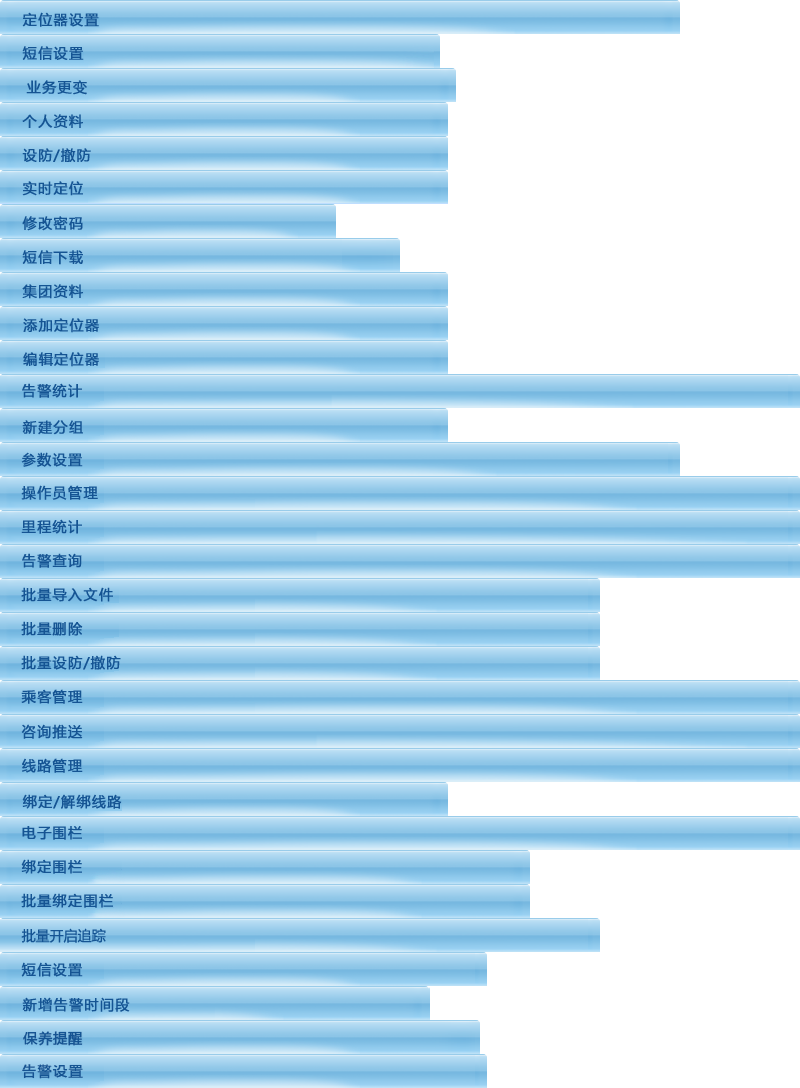
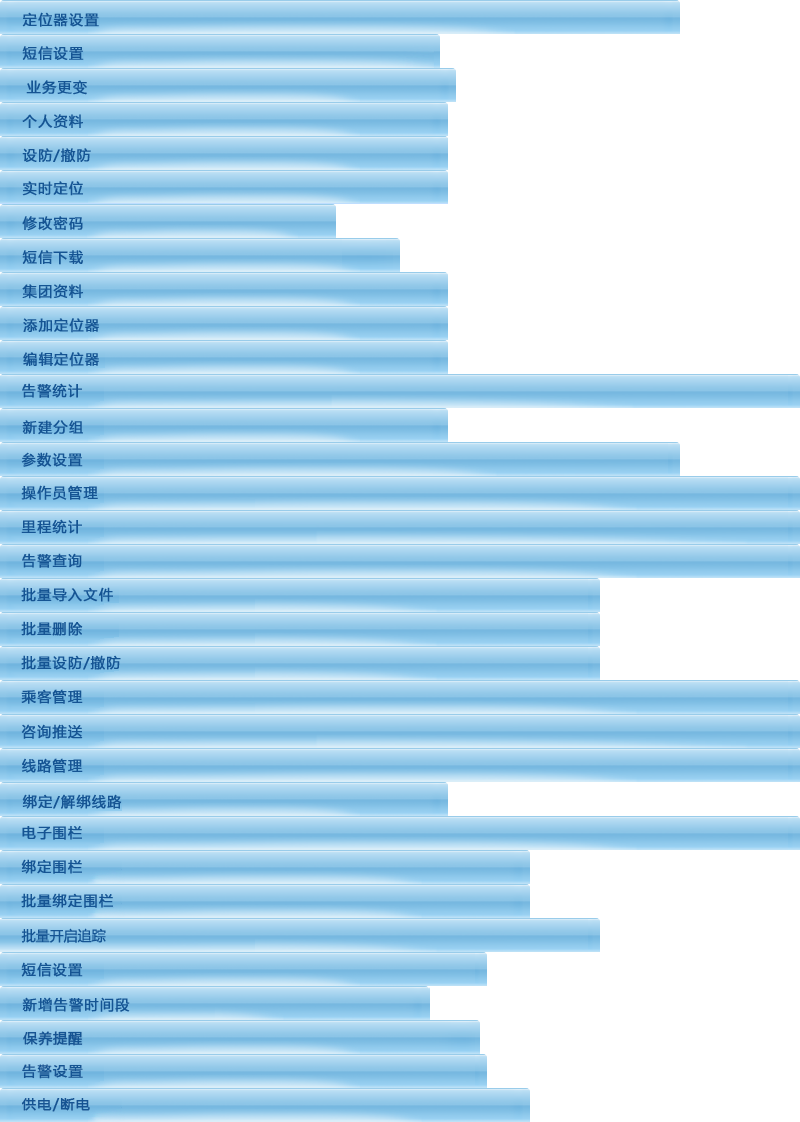
--hs --增加供电 /断电设置 --个人版增加供电/断电显示
git-svn-id: http://www.ichebao.net/svn/acb/trunk@2047 fbfde4e3-4bc3-4d81-a63b-7b332075e0cf

diff --git a/apps/uweb/static/js/initialize_common.js b/apps/uweb/static/js/initialize_common.js
@@ -625,6 +625,9 @@ window.dlf.fn_getCarData = function(str_flag) {
 				
 				obj_carInfo.tid = str_tid;
 				
+				if ( obj_carInfo.acc_message != '' ) {
+					alert(obj_carInfo.acc_message);
+				}
 				// 1. 判断之前数据是否合法 
 				// 2. 新数据是否合法: yes:更新  no: 不更新
 				if ( dlf.fn_isEmptyObj(obj_tempCarsData) ) {
@@ -806,6 +809,8 @@ window.dlf.fn_updateTerminalInfo = function (obj_carInfo, type) {
 		$('#gpsContent').html(str_gps);	// gps
 		$('#defendContent').html(str_dStatus).data('defend', n_defendStatus);	// defend status
 		$('#defendStatus').css('background-image', 'url("' + dlf.fn_getImgUrl() + str_dImg + '")');	//.attr('title', str_dStatusTitle);
+		//$('#tmobile').attr('title', '定位器号码：' + str_tmobile );	// 定位器手机号
+		$('#tmobileContent').html(str_tmobile);
 	}
 	//$('.j_updateTime').attr('title', str_time)
 	$('#locationTime').html(str_time); // 最后一次定位时间
@@ -2611,17 +2616,19 @@ window.dlf.fn_mileageNotificationSave = function() {
 		n_num ++;
 		obj_param.assist_mobile = str_newAssistMobile;
 	}
-	if ( n_newDistance != n_currentDistance ) {
-		if ( n_newDistance <= n_currentDistance ) {
-			dlf.fn_jNotifyMessage('下次保养里程必须大于当前保养里程。', 'message', false, 4000); // 查询状态不正确,错误提示
-			return;
-		} else {
-			if ( n_newDistance != n_oldDistance ) {
-				n_num ++;
-				obj_param.distance_notification = n_newDistance;
-			}		
+	
+	if ( n_newDistance != n_oldDistance ) {
+		if ( n_newDistance != n_currentDistance ) {
+			if ( n_newDistance <= n_currentDistance ) {
+				dlf.fn_jNotifyMessage('下次保养里程必须大于当前保养里程。', 'message', false, 4000); // 查询状态不正确,错误提示
+				return;
+			} else {
+				if ( n_newDistance != n_oldDistance ) {
+					n_num ++;
+					obj_param.distance_notification = n_newDistance;
+				}		
+			}
 		}
-		n_num ++;
 	}
 	if ( n_oldDistanceTime != n_newDistanceTime ) {
 		n_num ++;
@@ -2641,6 +2648,31 @@ window.dlf.fn_mileageNotificationSave = function() {
 		dlf.fn_unLockContent(); // 清除内容区域的遮罩
 	}
 }
+
+/**
+* 供电/断电设置
+*hs: 2014-7-21
+*/
+
+window.dlf.fn_initAccStatus = function(str_alias) {
+	dlf.fn_dialogPosition('accStatus');  // 显示短信设置dialog	
+	dlf.fn_lockScreen(); // 添加页面遮罩
+	
+	$('#accStatusType1').attr('checked', 'checked');
+	$('#accStatus_alias').html(dlf.fn_encode(str_alias));
+	$('#accStatusSave').unbind('click').click(function(e) {
+		dlf.fn_accStatusSave();
+	});
+}
+
+window.dlf.fn_accStatusSave = function() {
+	var n_accStatus = $('input[name=accStatusType]:checked').val(),
+		obj_param = {'tids': [dlf.fn_getCurrentTid()], 'op_type': n_accStatus};
+	
+	dlf.fn_jsonPost(ACCSTATUS_URL, obj_param, 'accStatus', '供电/断电保存中');
+}
+
+
 
 })();
 

diff --git a/apps/uweb/templates/dialogs.html b/apps/uweb/templates/dialogs.html
@@ -442,15 +442,6 @@
 										<label for="corp_parking_defend0">关闭</label>
 									</td>
 								</tr>
-								<tr>
-									<td class="corp_terminalTdL">供电设置:</td>
-									<td id="corp_op_type" class="j_corp_ListVal j_radio" t_val="">
-										<input id="corp_op_type1" type="radio" value="1" name="corp_op_type" />
-										<label for="corp_op_type1">供电</label>
-										<input id="corp_op_type0" type="radio" value="0" name="corp_op_type" />
-										<label for="corp_op_type0">断电</label>
-									</td>
-								</tr>
 								<!--<tr class="j_corp_terminal">
 									<td class="corp_terminalTdL" >告警模式:</td>
 									<td id="corp_alert_freq"  class="j_corp_ListVal j_input"  t_val="">
@@ -1902,6 +1893,33 @@
 				</fieldset>
 				<input type="button" value="" id="corp_alertOptionSave" class="corp_alertOptionButton j_save" />
 			</form>
+		</div>
+	</div>
+	<!--供电/断电-->
+	<div id="accStatusWrapper" class="wrapper hide j_drag">
+		<div class="wrapperTitle accStatusTitle">
+			<span class="close j_close" who="accStatus"></span>
+		</div>
+		<div class="accStatusContent wrapperContent">
+			<table id="accStatusTable" class="bListR">
+				<tbody>
+					<tr>
+						<td class="corp_terminalTdL">定位器名称：</td>
+						<td>
+							<span id="accStatus_alias"></label>
+						</td>
+					</tr>
+					<tr><td class="corp_terminalTdL">定位器电池状态：</td>
+						<td>
+							</label><input id="accStatusType1" type="radio" value="1" name="accStatusType" checked />
+							<label for="accStatusType1">供电</label>
+							<input id="accStatusType0" type="radio" value="0" name="accStatusType" />
+							<label for="accStatusType0">断电</label>
+						</td>
+					</tr>
+				</tbody>
+			</table>
+			<input type="button" value="" id="accStatusSave" class="j_save" />
 		</div>
 	</div>
 </div>

diff --git a/apps/uweb/static/css/css.css b/apps/uweb/static/css/css.css
@@ -1204,7 +1204,7 @@ body {
 	width: 460px;
 	border: 1px;
 }
-#corp_terminalForm .bListR, #terminalForm .bListR {
+#corp_terminalForm .bListR, #terminalForm .bListR, #accStatusWrapper .bListR {
 	/*padding-left: 88px;*/
     padding-top: 20px;
     width: 460px;
@@ -1324,7 +1324,7 @@ body {
 	margin-top: 10px;
 	color: gray;
 }
-.personalButton, #pwdSave, #terminalSave, #smsNoticeSave, #createGroupSave, #corp_terminalSave, #operatorSave, #passengerSave, #infoPushSave, #corp_smsOptionSave, #infoPushDisabledBtn, #notifyManageSave, #notifyManageSureSave, .saveButton, #corp_alertOptionSave {
+.personalButton, #pwdSave, #terminalSave, #smsNoticeSave, #createGroupSave, #corp_terminalSave, #operatorSave, #passengerSave, #infoPushSave, #corp_smsOptionSave, #infoPushDisabledBtn, #notifyManageSave, #notifyManageSureSave, .saveButton, #corp_alertOptionSave, #accStatusSave {
 	border: 0px;
 	background: url('/static/images/bc.png') no-repeat;
 	width: 92px;
@@ -3964,3 +3964,22 @@ legend {
 
 #corpTree .jstree-open > ins { background-position:-18px 0; }
 #corpTree  .jstree-closed > ins { background-position:0 0; }
+
+.accStatusTitle {
+	background-position: 0px -1088px;
+}
+
+#accStatusWrapper .bListR {
+	padding-left: 60px;
+}
+#accStatusWrapper .bListR input {
+	margin-left: 0;
+}
+#accStatusSave {
+	position: relative;
+	left: 188px;
+	top: 20px;
+}
+.accStatusContent {
+	height: 180px;
+}

diff --git a/apps/uweb/static/js/corp_main.js b/apps/uweb/static/js/corp_main.js
@@ -93,6 +93,7 @@ function customMenu(node) {
 		eventLabel = '告警查询';
 		moveToLabel = '移动定位器';
 		singleDefendLabel = '设防/撤防';
+		accStatusLabel = '供电/断电';
 		staticsLabel = '里程统计';
 		bindLineLabel = '绑定/解绑线路';
 		bindRegionLabel = '绑定围栏';
@@ -224,6 +225,12 @@ function customMenu(node) {
 				dlf.fn_initMileageNotification($(obj).children('a').eq(0).attr('tid'));
 				return false;
 			}			
+		},
+		"accStatus": {	// 单个定位器设置供电/断电
+			"label" : accStatusLabel,
+			"action" : function (obj) {
+				dlf.fn_initAccStatus(obj.children('a').attr('alias'));
+			}
 		},
 		"defend": {	// 单个定位器设防撤防
 			"label" : singleDefendLabel,
@@ -392,6 +399,7 @@ function customMenu(node) {
 		delete items.batchDefend;
 		delete items.batchRegion;
 		delete items.defend;
+		delete items.accStatus;
 		delete items.realtime;
 		delete items.track;
 		delete items.statics;
@@ -411,6 +419,7 @@ function customMenu(node) {
 		delete items.event;
 		delete items.terminalSetting;
 		delete items.defend;
+		delete items.accStatus;
 		delete items.realtime;
 		delete items.track;
 		delete items.statics;

diff --git a/apps/uweb/templates/index.html b/apps/uweb/templates/index.html
@@ -82,6 +82,7 @@
 					<li><a href="#" id="eventSearch" class="eventSearch j_click">告警查询</a></li>
 					<li><a href="#" id="region" class="region j_click">电子围栏</a></li>
 					<li><a href="#" id="defend" class="defend j_click">设防/撤防</a></li>
+					<li><a href="#" id="accStatus" class="accStatus j_click">供电/断电</a></li>
 					<li><a href="#" id="mileageNotificationSet" class="mileageNotificationSet j_click">保养提醒</a></li>
 					<!--<li><a href="#" id="terminal" class="terminal j_click"></a></li>
 					<li><a href="#" id="smsOption" class="smsOption j_click"></a></li>-->

diff --git a/apps/uweb/static/js/map_baidu.js b/apps/uweb/static/js/map_baidu.js
@@ -222,7 +222,7 @@ window.dlf.fn_addMarker = function(obj_location, str_iconType, str_tempTid, n_in
 		str_alias = b_userType == true ? obj_carA.attr('alias') : obj_carA.next().html();
 	}
 	str_alias = dlf.fn_encode(str_alias);
-	label = new BMap.Label(str_alias, {offset:new BMap.Size(31, 26)});
+	label = new BMap.Label(str_alias, {offset:new BMap.Size(31, 32)});
 	label.setStyle({'backgroundColor': '#fff', 'fontSize': '13px', 'lineheight': '20px','borderRadius': '6px','padding': '5px','color': '#000'});	// 设置label样式
 	/**
 	* 设置marker图标

diff --git a/apps/uweb/static/js/definitions.js b/apps/uweb/static/js/definitions.js
@@ -68,6 +68,7 @@ var NOTIFYMANAGE_URL = '/announcement/list'; //通知管理
 var NOTIFYMANAGE_ADD_URL = '/announcement'; //通知新增
 var MILEAGENOTIFICATION_URL = '/mileagenotification';	// 保养提醒
 var CORP_ALERT_URL = '/alarmoption';	// 集团告警设置
+var ACCSTATUS_URL = '/acc';	// 供电/断电
 /*常量*/
 var CHECK_INTERVAL = 10000; // 每N秒
 var CHECK_ROUNDNUM = 3; // 经纬度显示小数位截取

diff --git a/apps/uweb/static/js/corp_terminal.js b/apps/uweb/static/js/corp_terminal.js
@@ -123,9 +123,6 @@ window.dlf.fn_initTerminalWR = function (str_tid) {
 				n_whitelistLenth = 0,
 				n_whitelistTip = 0;
 			
-			$('#corp_op_type1' ).attr('checked', 'checked'); 
-			$('#corp_op_type').attr('t_val', 1);
-			
 			for(var param in obj_data) {
 				var str_val = obj_data[param],
 					obj_param = $('#t_corp_' + param );

diff --git a/apps/uweb/static/js/main.js b/apps/uweb/static/js/main.js
@@ -734,6 +734,9 @@ $(function () {
 			case 'mileageNotificationSet':  //个人版里程保养
 				dlf.fn_initMileageNotification(dlf.fn_getCurrentTid());
 				break;
+			case 'accStatus': // 供电/断电
+				dlf.fn_initAccStatus($('.j_currentCar').attr('alias'));
+				break;
 		}
 	});
 	
